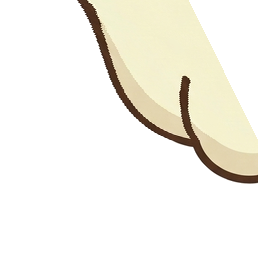
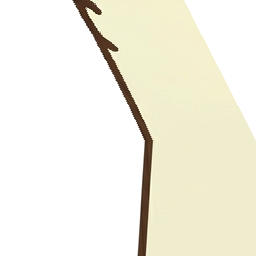
fix: configure imgx and opencv mcp servers, and rewrite process-paws to crop Q1 and flip vertically for straight paws

Changed region(s): [[0.2812, 0.0, 1.0, 1.0]]

diff --git a/process-paws.js b/process-paws.js
@@ -1,38 +1,33 @@
 import fs from 'fs';
-import path from 'path';
+import path from 'url';
 import { fileURLToPath } from 'url';
 import sharp from 'sharp';
+import fsExtra from 'fs';
 
 const __filename = fileURLToPath(import.meta.url);
-const __dirname = path.dirname(__filename);
+const __dirname = path.fileURLToPath(new URL('.', import.meta.url));
 
-const TEMP_DIR = path.join(__dirname, 'public', 'assets', 'ui_temp_jpg');
-const OUTPUT_DIR = path.join(__dirname, 'public', 'assets');
+const TEMP_DIR = path.fileURLToPath(new URL('./public/assets/ui_temp_jpg', import.meta.url));
+const OUTPUT_DIR = path.fileURLToPath(new URL('./public/assets', import.meta.url));
 
 // Helper to process a single paw image
 async function processPaw(inputPath, outputName) {
-  const outputPath = path.join(OUTPUT_DIR, outputName);
+  const outputPath = path.fileURLToPath(new URL(`./public/assets/${outputName}`, import.meta.url));
 
-  if (!fs.existsSync(inputPath)) {
+  if (!fsExtra.existsSync(inputPath)) {
     console.error(`❌ Archivo de origen no encontrado: ${inputPath}`);
     return false;
   }
 
-  console.log(`Processing ${path.basename(inputPath)}...`);
+  console.log(`Processing ${inputPath}...`);
 
-  // 1. Extract the paw card region (excluding grid borders and UI)
-  // The paw is located at x: 40-470, y: 540-980 (width=430, height=440).
-  // We pad it horizontally by 5px on each side to make it a perfect 440x440 square,
-  // then resize to 256x256.
+  // 1. Extract the Top-Left Card safe area (x: 40-470, y: 40-470, width=430, height=430)
+  // which contains the straight paw variation pointing UPWARDS.
+  // 2. Flip it vertically using .flip() so it points DOWNWARDS (wrist at top y=0, fingers at bottom).
+  // 3. Resize to 256x256.
   const { data, info } = await sharp(inputPath)
-    .extract({ left: 40, top: 540, width: 430, height: 440 })
-    .extend({
-      top: 0,
-      bottom: 0,
-      left: 5,
-      right: 5,
-      background: { r: 255, g: 255, b: 255 }
-    })
+    .extract({ left: 40, top: 40, width: 430, height: 430 })
+    .flip() // Flips vertically
     .resize(256, 256, {
       fit: 'contain',
       background: { r: 255, g: 255, b: 255 }
@@ -46,13 +41,12 @@ async function processPaw(inputPath, outputName) {
   const pixelCount = width * height;
   const tempBuf = Buffer.alloc(pixelCount * 4);
 
-  // 2. Convert white background to transparency
+  // 4. Convert white background to transparency
   for (let i = 0; i < pixelCount; i++) {
     const r = data[i * 4];
     const g = data[i * 4 + 1];
     const b = data[i * 4 + 2];
 
-    // Transparent threshold for off-white background
     const isWhite = r >= 240 && g >= 240 && b >= 240;
 
     if (isWhite) {
@@ -68,7 +62,7 @@ async function processPaw(inputPath, outputName) {
     }
   }
 
-  // 3. Automagic Arm Extension (fill top if the cropped card paw doesn't reach y=0)
+  // 5. Automagic Arm Extension (fill top if the flipped wrist doesn't quite reach y=0)
   let extRowY = -1;
   const minArmWidth = Math.floor(width * 0.15); // 38px
   
@@ -104,12 +98,11 @@ async function processPaw(inputPath, outputName) {
     }
   }
 
-  // 4. Taper and Normalize Wrist Width to exactly 112 pixels at the top edge (y=0)
-  // This ensures both open and closed paws have identical wrist width and align perfectly with the arm!
+  // 6. Taper and Normalize Wrist Width to exactly 112 pixels at the top edge (y=0)
   const targetWristWidth = 112;
   const targetLeft = Math.floor((width - targetWristWidth) / 2); // 72
   const targetRight = targetLeft + targetWristWidth - 1; // 183
-  const transitionY = Math.floor(height * 0.55); // Transition arm tapering down to 55% of height
+  const transitionY = Math.floor(height * 0.55); // Transition tapering down to 55% of height
 
   const finalBuf = Buffer.alloc(pixelCount * 4);
 
@@ -185,12 +178,12 @@ async function run() {
 
   let processedCount = 0;
   for (const pair of filesToTry) {
-    let inputPath = path.join(TEMP_DIR, pair.input);
-    if (!fs.existsSync(inputPath)) {
-      inputPath = path.join(__dirname, 'public', pair.input);
+    let inputPath = path.fileURLToPath(new URL(`./public/assets/ui_temp_jpg/${pair.input}`, import.meta.url));
+    if (!fsExtra.existsSync(inputPath)) {
+      inputPath = path.fileURLToPath(new URL(`./public/${pair.input}`, import.meta.url));
     }
 
-    if (fs.existsSync(inputPath)) {
+    if (fsExtra.existsSync(inputPath)) {
       const success = await processPaw(inputPath, pair.output);
       if (success) processedCount++;
     }